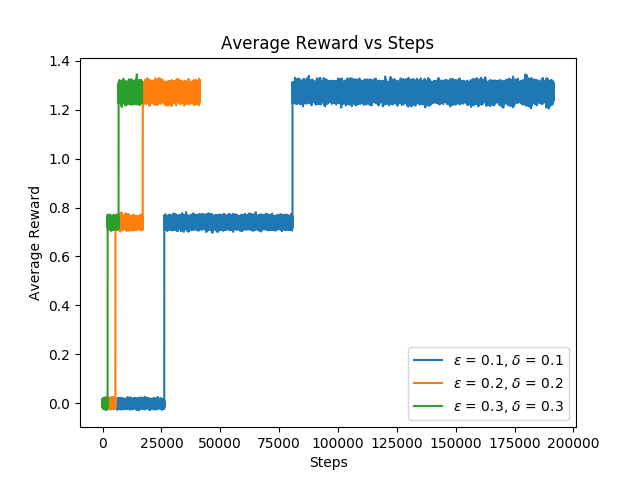
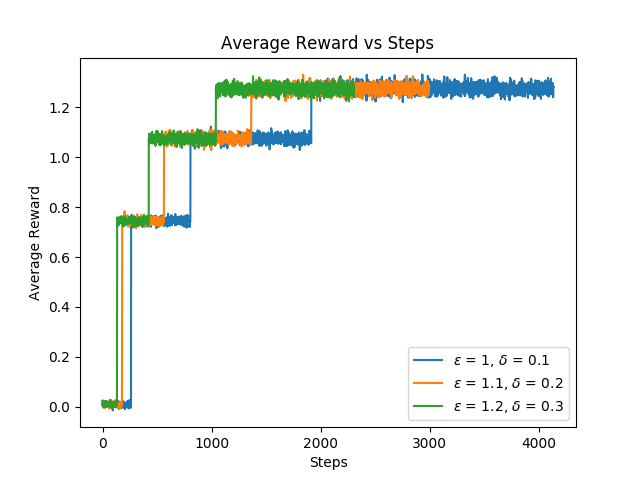
Comparison added

diff --git a/mea.py b/mea.py
@@ -36,19 +36,25 @@ def run_mea(means, epsilon, delta):
         bandit_rewards_avg = rewards_l / computed_l
         medians = np.median(bandit_rewards_avg, 1)
 
-        new_means_list = np.zeros((n_bandits, int(arms_l - arms_l / 2)))
+        if arms_l % 2 == 0:
+            new_means_list = np.zeros((n_bandits, int(arms_l - arms_l / 2)))
+        else:
+            new_means_list = np.zeros((n_bandits, int(arms_l - arms_l / 2) + 1))
 
         for j in range(0, n_bandits):
             k1 = 0
             for k in range(0, arms_l):
-                if bandit_rewards_avg[j][k] > medians[j]:
-                    new_means_list[j][k1] = bandit_rewards_avg[j][k]
+                if bandit_rewards_avg[j][k] >= medians[j]:
+                    new_means_list[j][k1] = means_true_l[j][k]
                     if k == optimum_arms_l[j]:
                         optimum_arm_selected += 1
                     k1 += 1
 
         means_true_l = new_means_list
-        arms_l = int(arms_l / 2)
+        if arms_l % 2 == 0:
+            arms_l = int(arms_l / 2)
+        else:
+            arms_l = int(arms_l / 2) + 1
         optimum_arms_l = np.argmax(means_true_l, 1)
         optimum_selection_count.append(optimum_arm_selected * 100 / n_bandits)
         epsilon = (3 / 4) * epsilon
@@ -60,7 +66,7 @@ def run_mea(means, epsilon, delta):
 bandits = 2000
 arms = 10
 means_list, times_selected = experiment_testbed.initialize(bandits, arms)
-epsilons = [0.1, 0.2, 0.3]
+epsilons = [1, 1.1, 1.2]
 deltas = [0.1, 0.2, 0.3]
 
 fig_rewards = plt.figure().add_subplot(111)

diff --git a/compare.py b/compare.py
@@ -72,18 +72,19 @@ def softmax_rewards(means, times_list, temperature, optimal_list):
 
 def ucb_rewards(means, times_list, optimal_list, confidence):
     means1 = means.copy()
+    n_bandits = len(means1)
+    n_arms = len(means1[0])
     times_selected1 = times_list.copy()
-    q = np.zeros((2000, 10))
+    q = np.zeros((n_bandits, n_arms))
     reward_list = list()
     optimal_selection_list = list()
-    n_bandits = len(means1)
     n_iterations = 1000
-    n_arms = len(means1[0])
 
     # init_selection = np.random.normal(means1, 1)
     # reward_list.append(np.mean(init_selection))
 
     for i in range(1, n_iterations + 1):
+        print(i)
         curr_reward = 0
         optimal_selection = 0
         for j in range(0, n_bandits):
@@ -116,7 +117,7 @@ for i in range(0, n_iterations):
     x_axis.append(i)
 
 n_bandits = 2000
-n_arms = 10
+n_arms = 1000
 print('starting greedy')
 means_list, times_selected = experiment_testbed.initialize(n_bandits, n_arms)
 optimal_list = np.argmax(means_list, 1)
